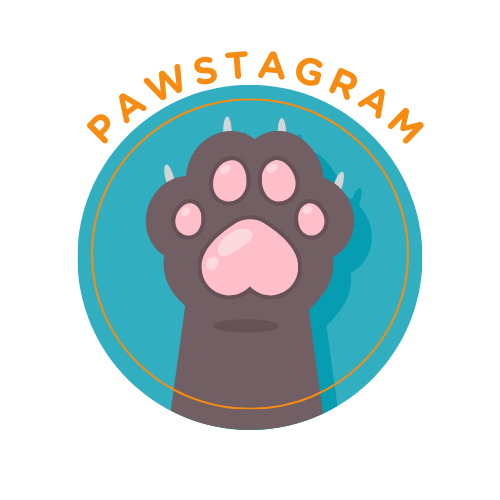
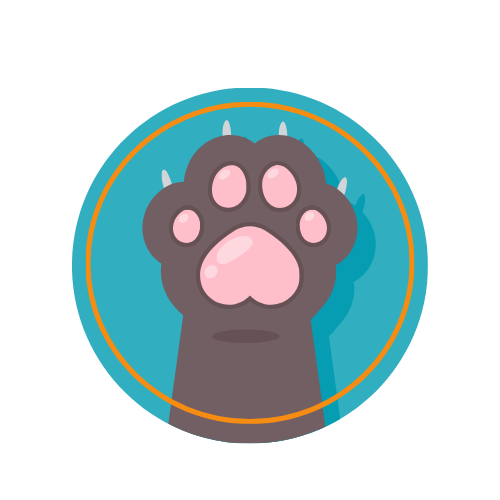
adding pawprint

diff --git a/src/components/LoginForm.jsx b/src/components/LoginForm.jsx
@@ -64,86 +64,86 @@ function LoginForm({ onLoginSuccess, onFlip }) {
 
   return (
     <div className="min-h-screen flex items-center justify-center">
-      <div className="max-w-md w-full space-y-8 p-10 bg-pawBgFour rounded-xl shadow-lg">
+      <div className="max-w-md w-full space-y-8 p-10 bg-pawBgFour rounded-xl shadow-lg paw-print-bg">
         <div className="text-center sm:mx-auto sm:w-full sm:max-w-md">
           <h2 className="mt-6 text-3xl font-bold text-indigo-900">
             WELCOME BACK
           </h2>
           <p className="mt-2 text-sm text-gray-600">You need to Log In first</p>
-          <div>
-            <br />
-            <img
-              src={logo}
-              alt="Pawstagram logo"
-              className="mx-auto w-32 sm:w-48 md:w-56 lg:w-64 h-auto"
+
+          <br />
+
+          <img
+            src={logo}
+            alt="Pawstagram logo"
+            className=" relative mx-auto w-40  sm:w-48 md:w-56 lg:w-64 h-auto"
+          />
+        </div>
+        <div className="bg-white py-10 px-2 shadow sm:rounded-lg sm:px-10">
+          <form className="space-y-6" onSubmit={handleSubmit}>
+            <input
+              type="email"
+              name="email"
+              className="w-full p-3 border border-gray-300 bg-amber-50 rounded-md"
+              placeholder="Email"
+              value={email}
+              onChange={(e) => setEmail(e.target.value)}
+              required
             />
 
-            <h1 className="text-xl font-bold my-4 text-gray-600">Pawstagram</h1>
-          </div>
-        </div>
-        <form className="space-y-6" onSubmit={handleSubmit}>
-          <input
-            type="email"
-            name="email"
-            className="w-full p-3 border border-gray-300 bg-amber-50 rounded-md"
-            placeholder="Email"
-            value={email}
-            onChange={(e) => setEmail(e.target.value)}
-            required
-          />
+            <input
+              type="password"
+              name="password"
+              className="w-full p-3 border border-gray-300 bg-amber-50 rounded-md"
+              placeholder="Password"
+              value={password}
+              onChange={(e) => setPassword(e.target.value)}
+              required
+              autoComplete="current-password"
+            />
 
-          <input
-            type="password"
-            name="password"
-            className="w-full p-3 border border-gray-300 bg-amber-50 rounded-md"
-            placeholder="Password"
-            value={password}
-            onChange={(e) => setPassword(e.target.value)}
-            required
-            autoComplete="current-password"
-          />
-
-          <div className="flex items-center justify-between">
-            <div className="flex items-center">
-              <input
-                id="remember_me"
-                name="remember_me"
-                type="checkbox"
-                className="h-4 w-4 text-indigo-600 focus:ring-indigo-500 border-gray-300 rounded"
-              />
-              <label
-                htmlFor="remember_me"
-                className="ml-2 block text-sm text-gray-900"
-              >
-                Remember me
-              </label>
+            <div className="flex items-center justify-between">
+              <div className="flex items-center">
+                <input
+                  id="remember_me"
+                  name="remember_me"
+                  type="checkbox"
+                  className="h-4 w-4 text-indigo-600 focus:ring-indigo-500 border-gray-300 rounded"
+                />
+                <label
+                  htmlFor="remember_me"
+                  className="ml-2 block text-sm text-gray-900"
+                >
+                  Remember me
+                </label>
+              </div>
+              <div className="text-sm">
+                <a
+                  href="#"
+                  className="font-medium text-indigo-600 hover:text-indigo-500"
+                >
+                  Forgot your password?
+                </a>
+              </div>
             </div>
-            <div className="text-sm">
-              <a
-                href="#"
+            <button
+              type="submit"
+              className="w-full flex justify-center py-3 px-4 border border-transparent rounded-md shadow-sm text-sm font-medium text-white bg-indigo-600 hover:bg-indigo-900 focus:outline-none"
+            >
+              Log in
+            </button>
+          </form>
+          <div className="text-center">
+            <p className="mt-2 text-sm text-gray-600">
+              Don&apos;t have an account?{" "}
+              <button
+                onClick={onFlip}
                 className="font-medium text-indigo-600 hover:text-indigo-500"
               >
-                Forgot your password?
-              </a>
-            </div>
+                Register
+              </button>
+            </p>
           </div>
-          <button
-            type="submit"
-            className="w-full flex justify-center py-3 px-4 border border-transparent rounded-md shadow-sm text-sm font-medium text-white bg-indigo-600 hover:bg-indigo-900 focus:outline-none"
-          >
-            Log in
-          </button>
-        </form>
-        <div className="text-center">
-          <p className="mt-2 text-sm text-gray-600">
-            Don&apos;t have an account?{" "}
-            <button
-              onClick={onFlip}
-              className="font-medium text-indigo-600 hover:text-indigo-500"
-            >
-              Register
-            </button>
-          </p>
         </div>
       </div>
     </div>

diff --git a/src/components/RegisterPage.jsx b/src/components/RegisterPage.jsx
@@ -155,8 +155,7 @@ function RegisterPage({ toggleFlip }) {
                       <button
                         type="button"
                         onClick={toggleFlip}
-                        style={{ cursor: "pointer" }}
-                        className="font-medium text-indigo-600 hover:text-indigo-500"
+                        className="font-medium text-indigo-600 hover:text-indigo-500 justify-center"
                       >
                         Login Here
                       </button>

diff --git a/src/index.css b/src/index.css
@@ -100,6 +100,15 @@ h1 {
   height: 100vh
 }
 
+.paw-print-bg {
+  background-image: url('./assets/pawprint.png');
+  background-repeat: no-repeat;
+  background-position: top 1px; 
+  background-size: 650px, cover;
+}
+
+
+
 
 @media (prefers-color-scheme: light) {
   :root {
